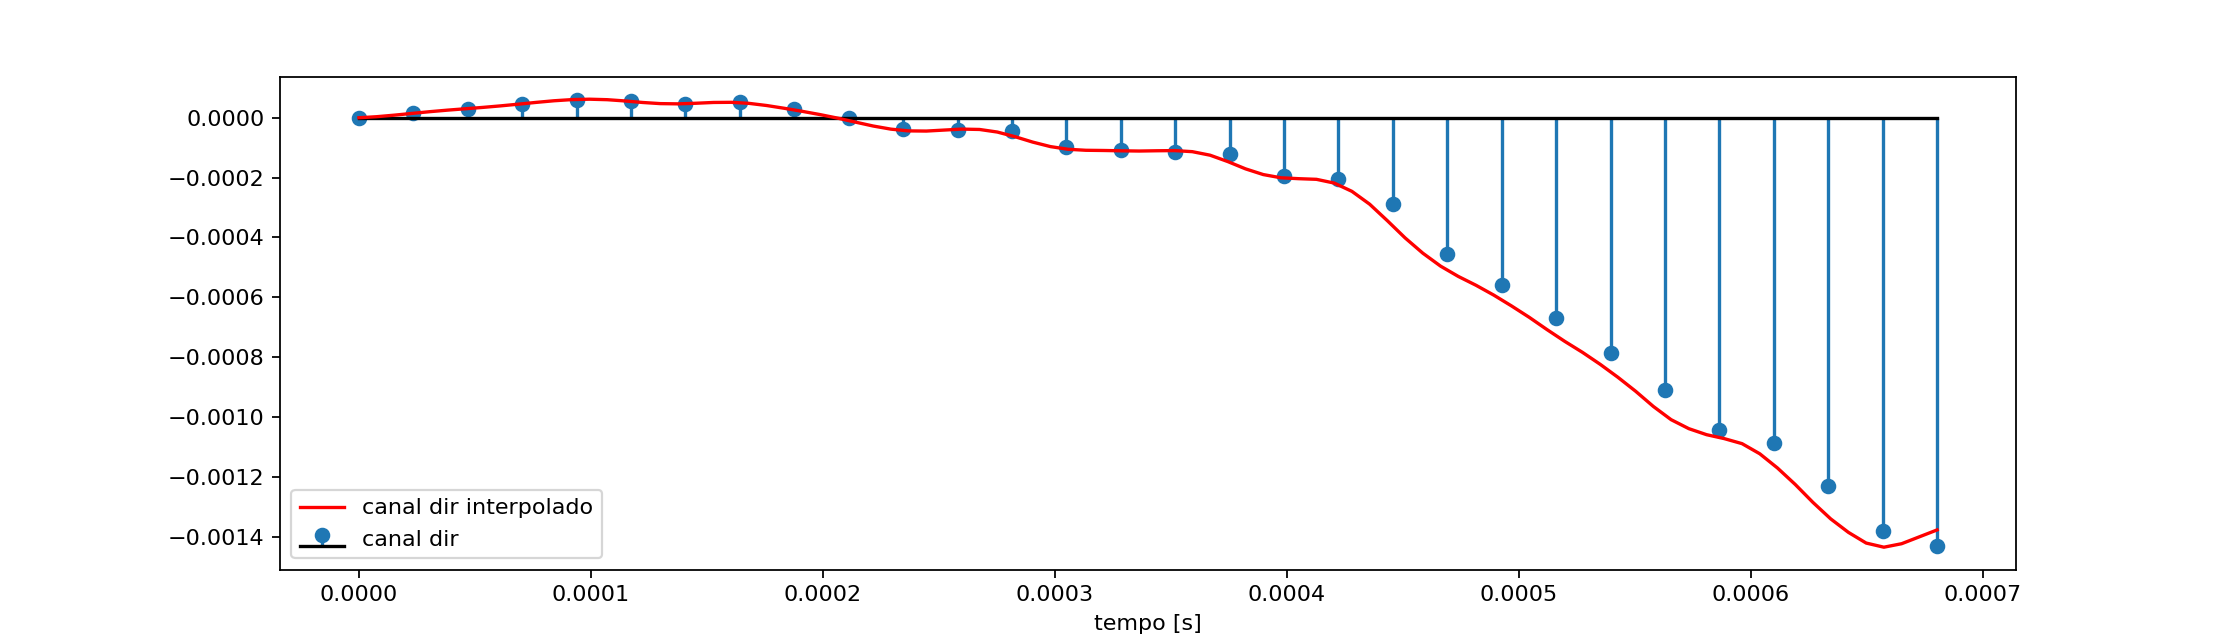
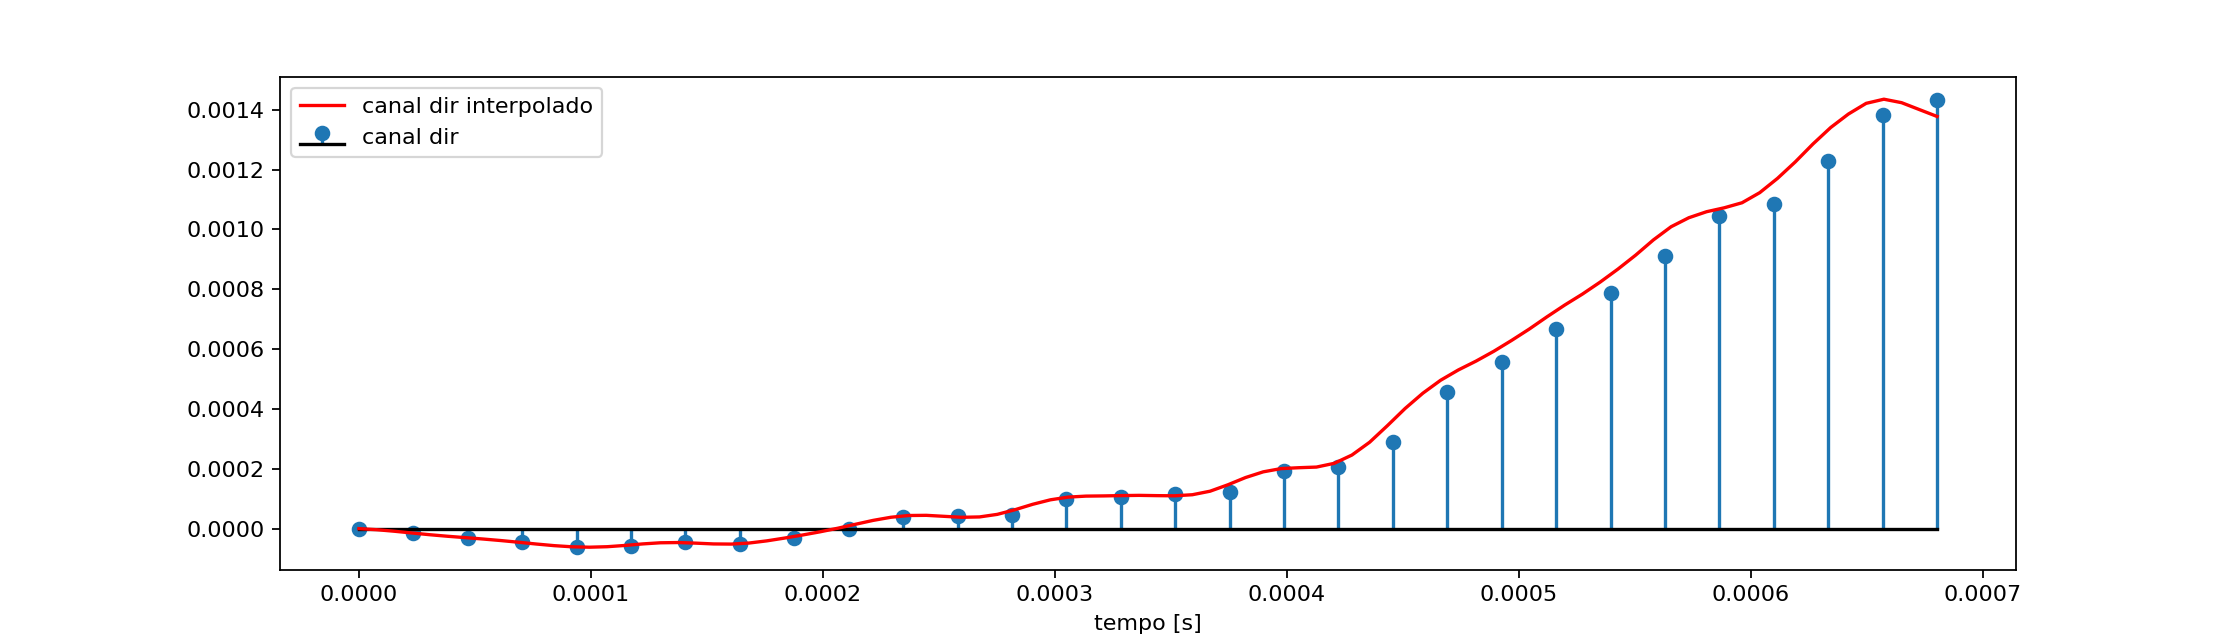
up

diff --git a/main.py b/main.py
@@ -6,6 +6,10 @@ from scipy.io import wavfile
 from scipy.io.wavfile import write
 from scipy.signal import welch
 
+
+def invert_arr(arr):
+    return [-x for x in arr]
+
 # ==================================| A | ================================== #
 # Plote o sinal no domínio do tempo.
 
@@ -173,18 +177,18 @@ write(filename, samplerate*3, scaled)
 
 plt.figure(7, (14,4), dpi=160)
 data_lx = np.linspace(0,len(data_l[:30])*1/samplerate, len(data_l[:30]))
-plt.plot(data_lx ,data_l[:30], color="red", label="canal esq")
+plt.plot(data_lx ,invert_arr(data_l[:30]), color="red", label="canal esq")
 data_l3x = np.linspace(0,len(data_l3[:90])*1/(2.93*samplerate), len(data_l3[:90]))
-plt.stem(data_l3x ,data_l3[:90], label="canal esq expandido", basefmt="black")
+plt.stem(data_l3x ,invert_arr(data_l3[:90]), label="canal esq expandido", basefmt="black")
 plt.legend()
 # plt.ylim(-0.1,2.5)
 plt.xlabel("tempo [s]")
 plt.show()
 
 plt.figure(7, (14,4), dpi=160)
-plt.stem(data_lx, data_l[:30], label="canal esq", basefmt="black")
+plt.stem(data_lx, invert_arr(data_l[:30]), label="canal esq", basefmt="black")
 data_l3_interx = np.linspace(0,len(data_l3[:90])*1/(2.93*samplerate), len(data_l3[:90]))
-plt.plot(data_l3_interx, data_l3_inter[13:103], label="canal esq interpolado", color="red")
+plt.plot(data_l3_interx, invert_arr(data_l3_inter[13:103]), label="canal esq interpolado", color="red")
 plt.legend()
 # plt.ylim(-0.3,3)
 plt.xlabel("tempo [s]")
@@ -192,18 +196,18 @@ plt.show()
 
 plt.figure(9, (14,4), dpi=160)
 data_rx = np.linspace(0,len(data_r[:30])*1/samplerate, len(data_r[:30]))
-plt.plot(data_rx, data_r[:30], color="red", label="canal dir")
+plt.plot(data_rx, invert_arr(data_r[:30]), color="red", label="canal dir")
 data_r3x = np.linspace(0,len(data_r3[:90])*1/(3.0*samplerate), len(data_r3[:90]))
-plt.stem(data_r3x, data_r3[:90], label="canal dir expandido", basefmt="black")
+plt.stem(data_r3x, invert_arr(data_r3[:90]), label="canal dir expandido", basefmt="black")
 plt.legend()
 # plt.ylim(-1.1,2.5)
 plt.xlabel("tempo [s]")
 plt.show()
 
 plt.figure(10, (14,4), dpi=160)
-plt.stem(data_rx, data_r[:30], label="canal dir", basefmt="black")
+plt.stem(data_rx, invert_arr(data_r[:30]), label="canal dir", basefmt="black")
 data_r3_interx = np.linspace(0,len(data_r3[:90])*1/(3.0*samplerate), len(data_r3[:90]))
-plt.plot(data_r3_interx, data_r3_inter[13:103], label="canal dir interpolado", color="red")
+plt.plot(data_r3_interx, invert_arr(data_r3_inter[13:103]), label="canal dir interpolado", color="red")
 plt.legend()
 # plt.ylim(-1.1,3)
 plt.xlabel("tempo [s]")
